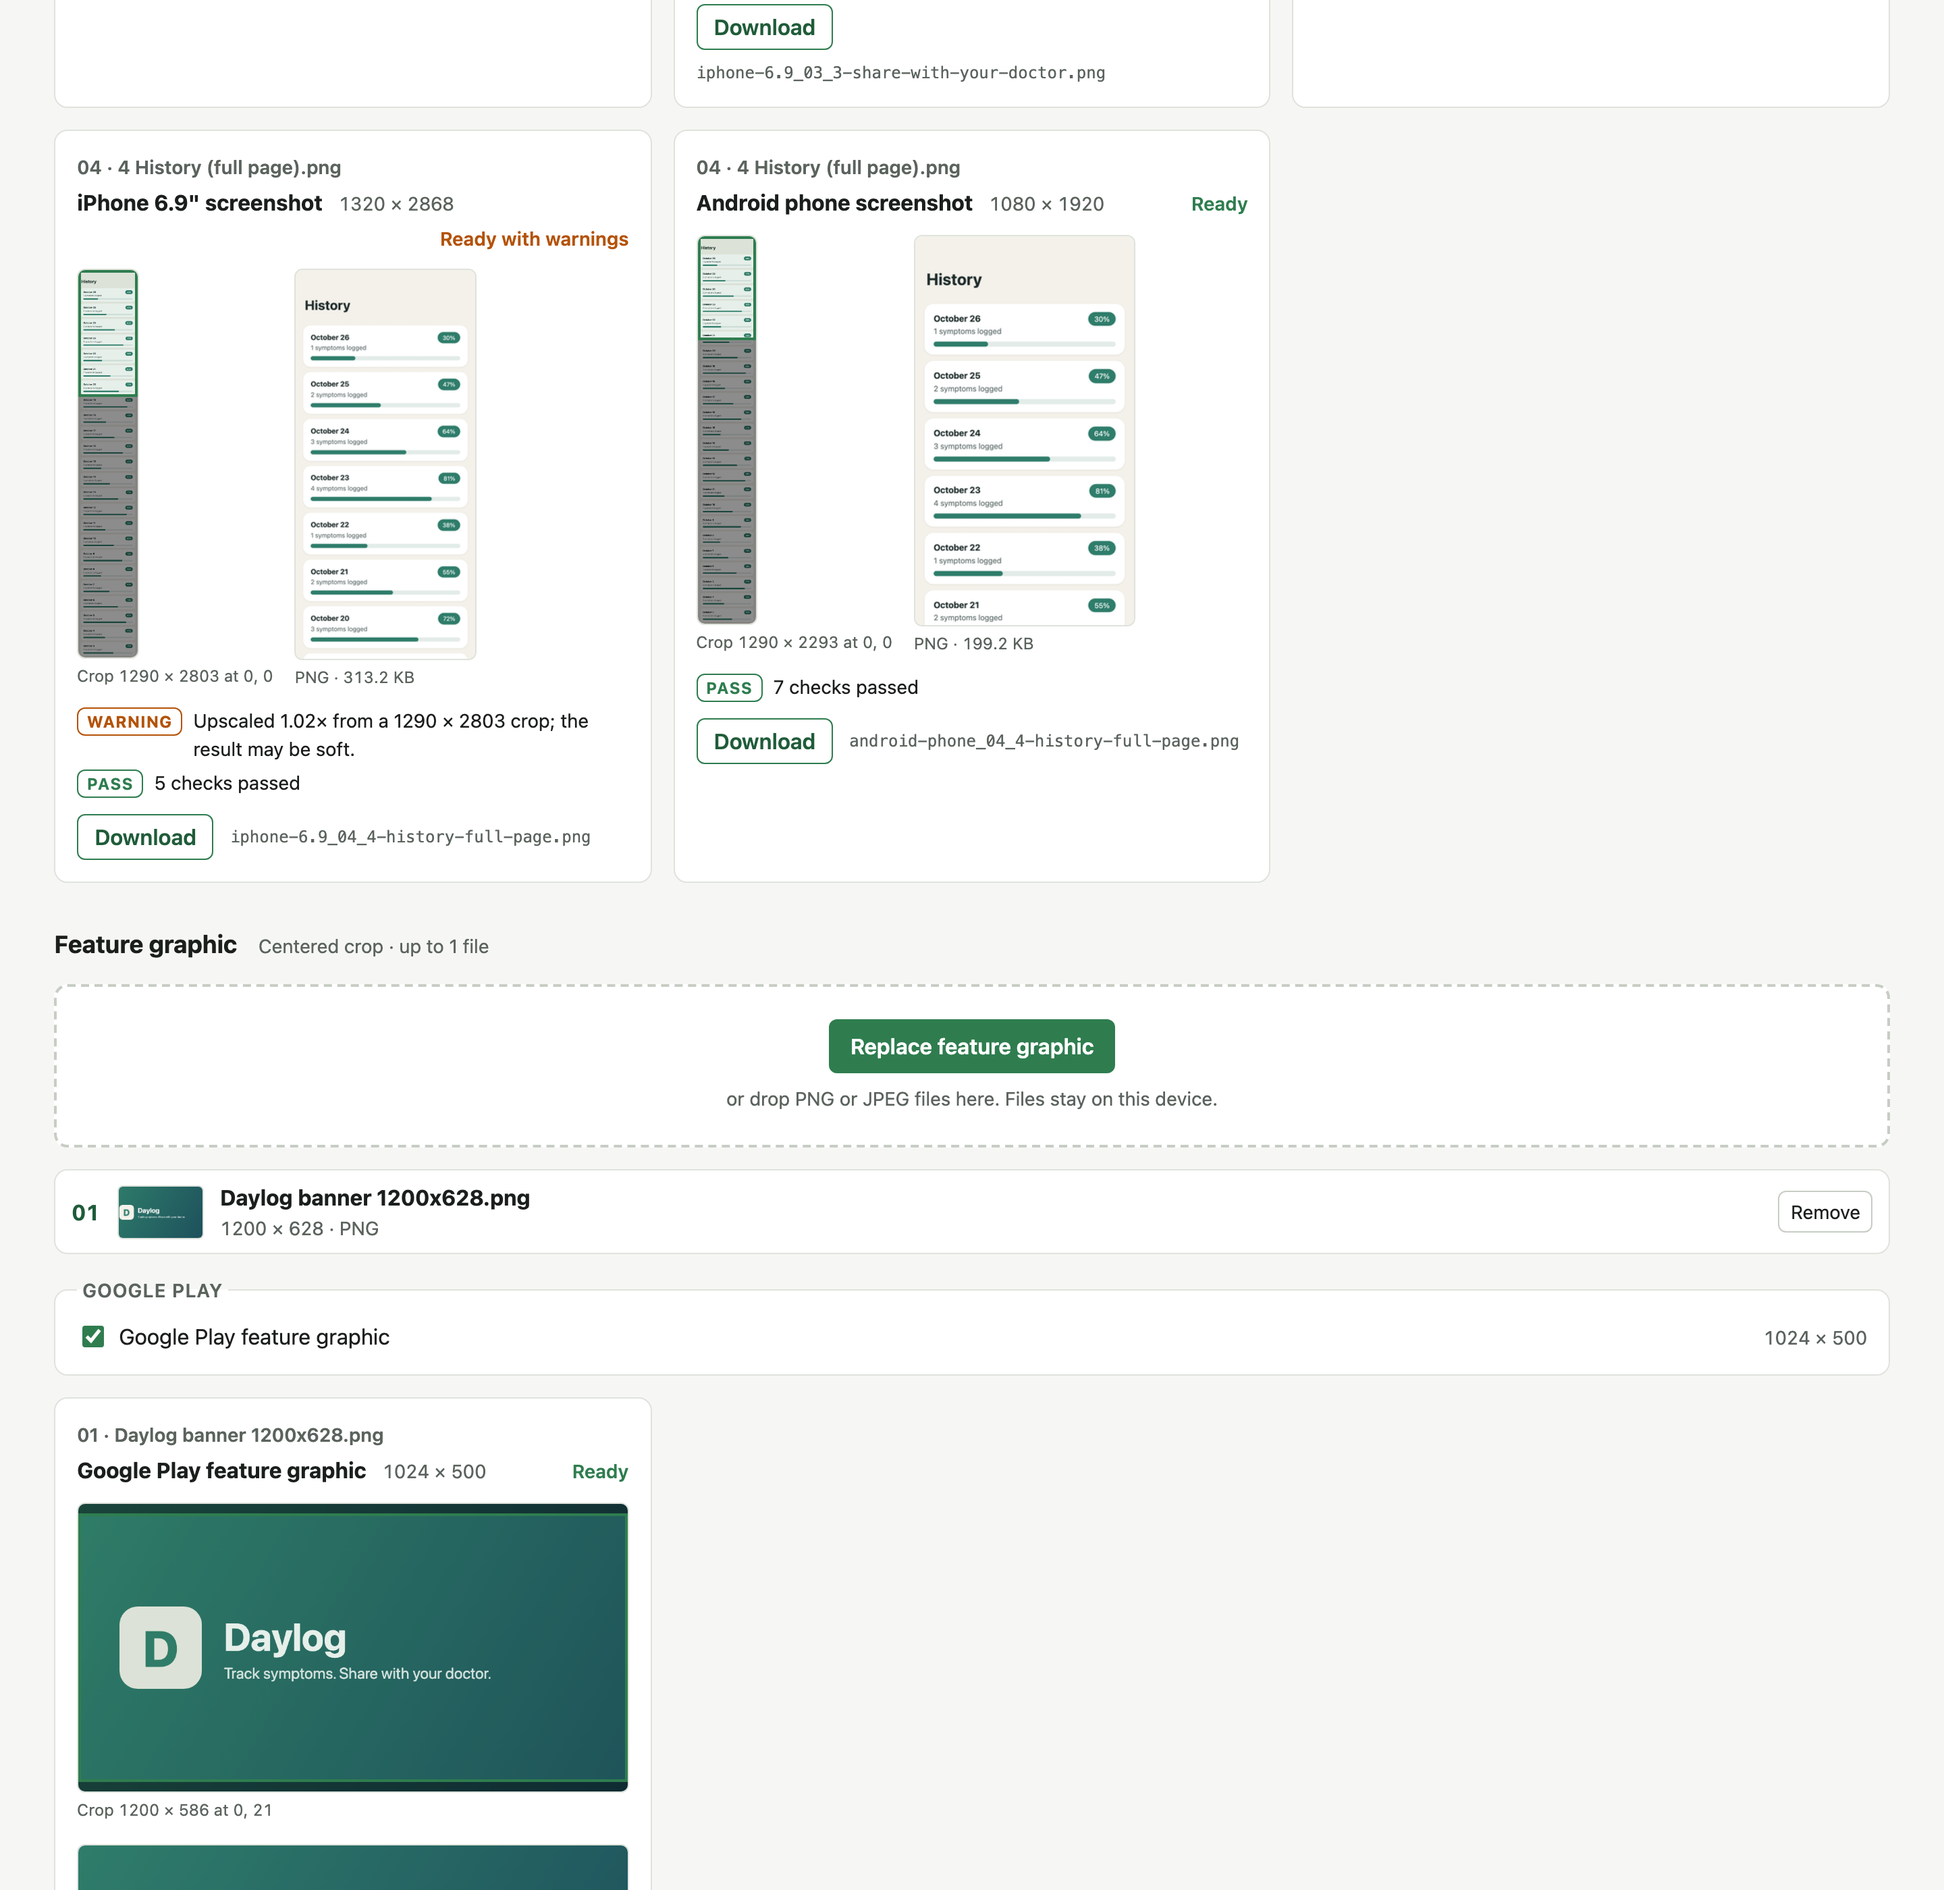
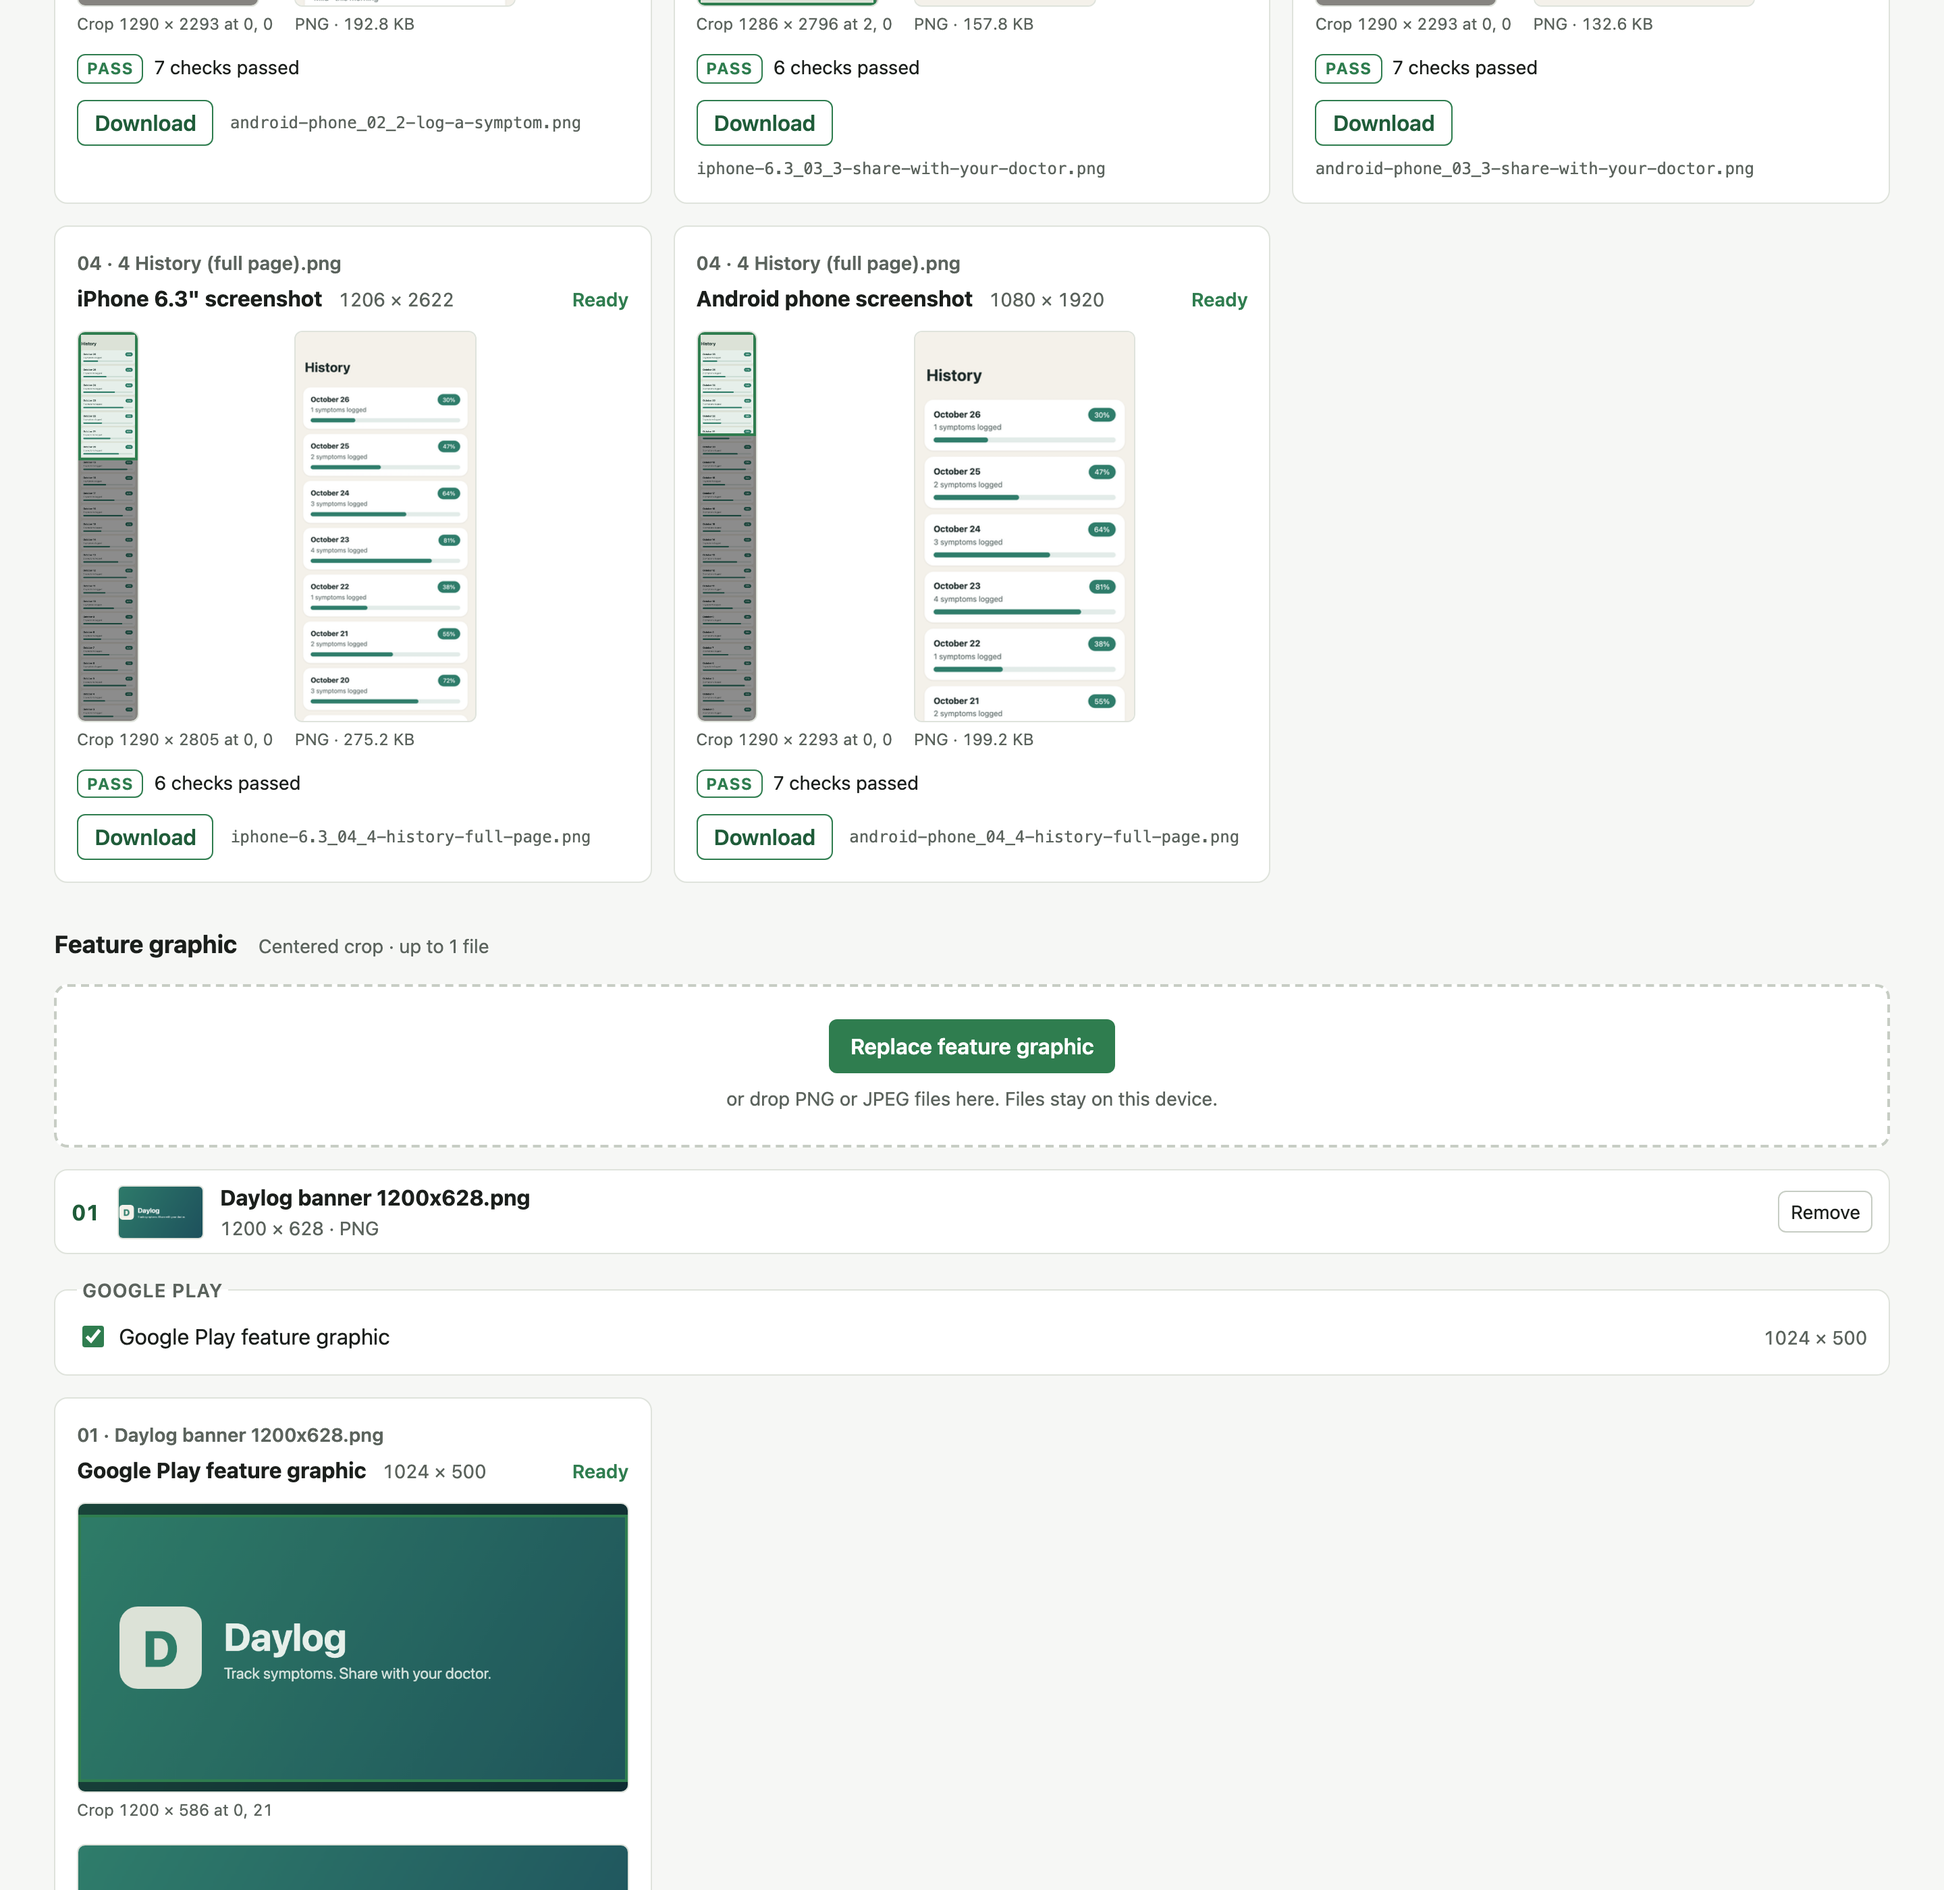
Release 0.2.0: README screenshots, version bump, changelog
Regenerates docs/images for the 6.3"/6.1" presets, bumps the packages
and LIBRARY_VERSION to 0.2.0, closes the changelog's Unreleased section
as 0.2.0, and moves the README's add-a-preset example to a landscape
size now that iphone-6.3 ships.

diff --git a/packages/core/src/version.ts b/packages/core/src/version.ts
@@ -1,2 +1,2 @@
 // Generated by scripts/sync-version.mjs from package.json. Do not edit.
-export const LIBRARY_VERSION = '0.1.0';
+export const LIBRARY_VERSION = '0.2.0';

diff --git a/README.md b/README.md
@@ -52,22 +52,22 @@ The file is also versioned and locked. Every package records the `rulesetVersion
 
 ### Adding a screen size
 
-Add an entry to `presets`, next to the others for the same store. For example, Apple's 6.3-inch iPhone size:
+Add an entry to `presets`, next to the others for the same store. For example, Apple's 6.3-inch iPhone size in landscape:
 
 ```json
 {
-  "id": "iphone-6.3",
-  "name": "iPhone 6.3\" screenshot",
+  "id": "iphone-6.3-landscape",
+  "name": "iPhone 6.3\" landscape screenshot",
   "store": "apple",
   "group": "screenshot",
-  "width": 1206,
-  "height": 2622,
+  "width": 2622,
+  "height": 1206,
   "format": "png",
   "alpha": false,
-  "folder": "iphone-6.3",
+  "folder": "iphone-6.3-landscape",
   "count": { "min": 1, "max": 10 },
   "defaultSelected": false,
-  "note": "Optional; iPhone 16 Pro"
+  "note": "Optional; for apps that run in landscape"
 }
 ```
 

diff --git a/CHANGELOG.md b/CHANGELOG.md
@@ -2,7 +2,9 @@
 
 This file records every notable change to the project, one section per release. The ruleset has its own version, recorded in every package; changes to it are noted with the release that shipped them.
 
-## Unreleased
+## 0.2.0 — iPhone screenshot sizes (2026-10-29)
+
+This release follows App Store Connect, which now takes iPhone screenshots for the 6.1" and 6.3" display slot at 1206 × 2622 or 1179 × 2556, so the 6.9" and 6.5" presets are replaced. It ships ruleset 2.0.0, a major bump because presets were removed; a saved session that had a removed preset selected loses that selection when it is restored.
 
 ### Added
 
